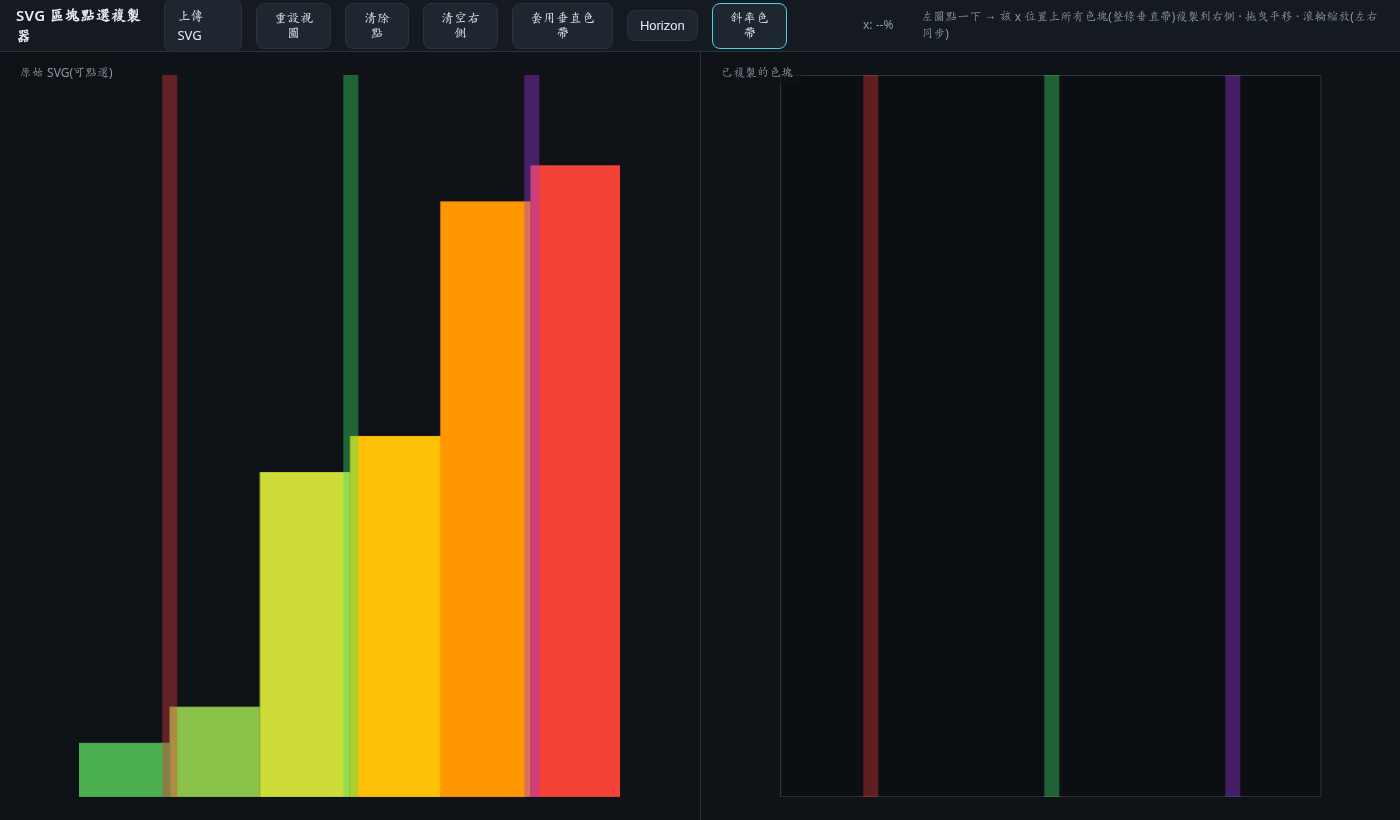
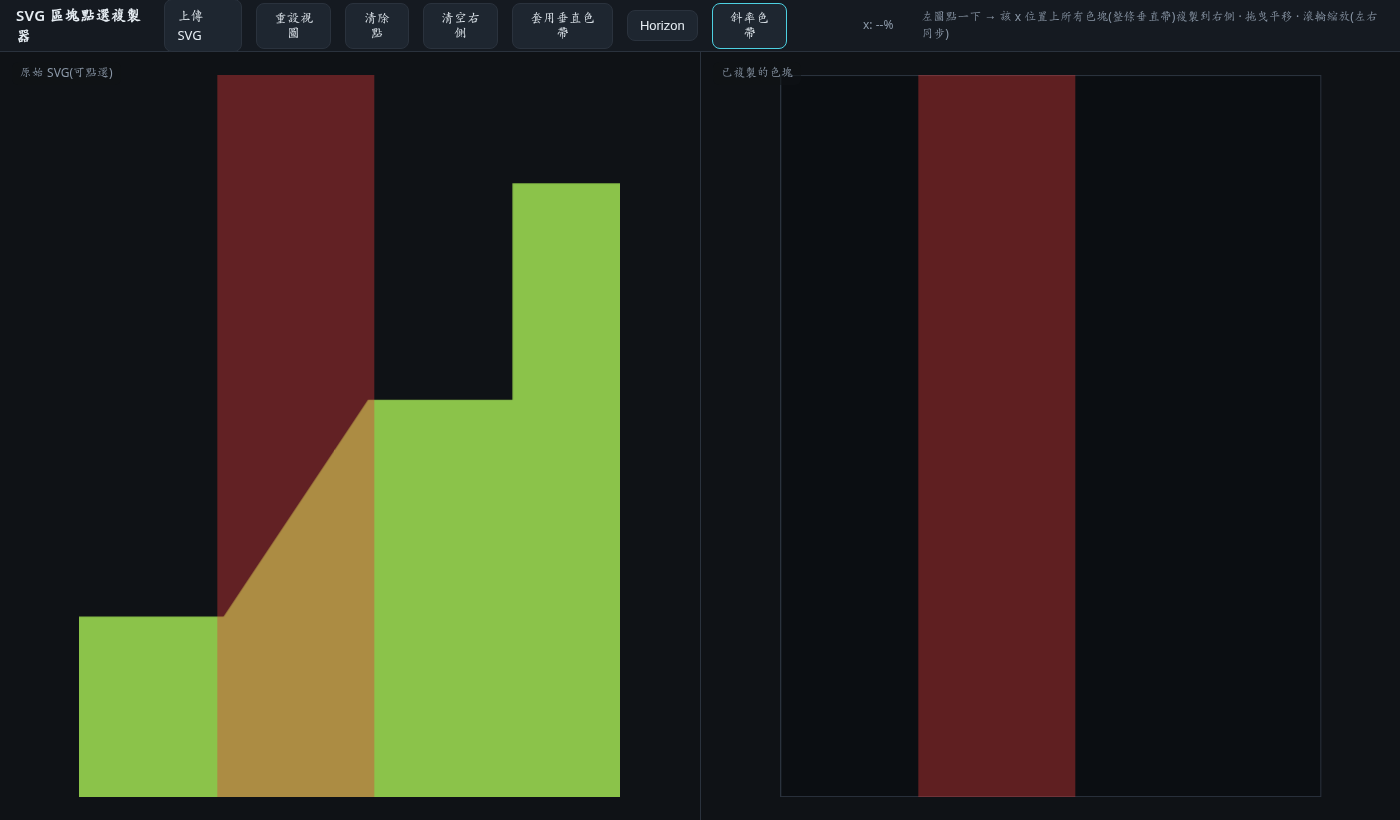
vcp: detect discontinuities by single-column jump, not slope magnitude
A vertical 90° step concentrates its whole rise into one column, so it is
a discontinuity at ANY height. Classify each column by the largest
single-column jump |Δy|/Δx in its window and exclude anything above
jumpMax, independent of the windowed slope — so a 20px step and a 130px
step are treated identically. A genuine slope spreads its rise over many
small per-column steps and is still marked.

Flips the step-height test: a mixed-height staircase (20px & 130px steps)
now yields zero bands, while a diagonal in the same canvas still yields
one. Fixes the reported case where short steps were banded and tall ones
were not. (ex.svg 69→52 bands.)

diff --git a/vcp/horizon-slope-step-heights.puppeteer.test.js b/vcp/horizon-slope-step-heights.puppeteer.test.js
@@ -1,17 +1,14 @@
-// Reproduces the reported case (Screenshot_20261011_205051): a pure block
-// staircase whose edges are ALL vertical 90° steps — no diagonals at all — yet
-// some steps get a colour band and some do not.
+// Guards the discontinuity rule against step HEIGHT (originally reported with
+// Screenshot_20261011_205051, where a block staircase of pure vertical 90°
+// steps had some steps banded and some not).
 //
-// Why: horizonSlopeSegments classifies a discontinuity by the magnitude of the
-// *windowed* slope, |Δy| / (2·window·Δx). A tall step produces a slope above
-// `steepMax` (correctly treated as a discontinuity and left unmarked), but a
-// SHORT step produces a small slope that lands in the "sloped" band and gets
-// marked. The cutoff here is |Δy| ≈ steepMax·2·window = 4·8 = 32 px, so a
-// 20px step is marked while a 130px step is not.
-//
-// This test characterises that height-dependent behaviour; it is the repro, not
-// an endorsement — a true fix would detect verticality from the single-sample
-// jump, independent of its height.
+// A vertical step concentrates its whole rise into a single column, so it is a
+// discontinuity no matter how tall it is. horizonSlopeSegments flags any
+// single-column jump |Δy|/Δx above `jumpMax`, independent of the windowed
+// slope — so a 20px step and a 130px step are treated identically (both
+// unmarked), while a genuine diagonal (rise spread over many columns) is still
+// marked. This test pins both halves of that: steps of mixed heights → zero
+// bands; a diagonal in the same canvas → exactly one band.
 const assert = require("node:assert/strict");
 const { createServer } = require("node:http");
 const { readFile } = require("node:fs/promises");
@@ -38,20 +35,23 @@ function staticServer() {
   return new Promise(resolve => server.listen(0, "127.0.0.1", () => resolve(server)));
 }
 
-// A staircase of flat-topped blocks. Steps alternate short (20px) and tall
-// (130px); every block is 50px wide inside a 300×400 canvas.
-//   tops:  370 → 350 → 220 → 200 → 70 → 50
-//   steps:    20   130   20   130   20
-//   x:        50   100  150   200  250   (→ 16.67% 33.33% 50% 66.67% 83.33%)
+// A staircase of flat-topped blocks: every edge is a vertical 90° step, and the
+// step heights deliberately mix short (20px) and tall (130px).
+//   tops:  370 → 350 → 220 → 200 → 70 → 50   (steps 20,130,20,130,20)
 const TOPS = [370, 350, 220, 200, 70, 50];
 const BLOCK = 50;
 const PALETTE = ["#4caf50", "#8bc34a", "#cddc39", "#ffc107", "#ff9800", "#f44336"];
 const stairSvg = `<svg xmlns="http://www.w3.org/2000/svg" width="300" height="400" viewBox="0 0 300 400">`
   + TOPS.map((top, i) => `<rect x="${i * BLOCK}" y="${top}" width="${BLOCK}" height="${400 - top}" fill="${PALETTE[i]}"/>`).join("")
   + `</svg>`;
+const STEP_PCT = [50, 100, 150, 200, 250].map(x => (x / 300) * 100);   // all five step x positions
 
-const SHORT_STEP_PCT = [50, 150, 250].map(x => (x / 300) * 100);   // marked (16.67/50/83.33%)
-const TALL_STEP_PCT = [100, 200].map(x => (x / 300) * 100);        // unmarked (33.33/66.67%)
+// Same idea, but one edge is a DIAGONAL ramp (flat → slope → flat → vertical
+// step → flat): the diagonal must be marked, the vertical step must not.
+const rampSvg = `<svg xmlns="http://www.w3.org/2000/svg" width="300" height="400" viewBox="0 0 300 400">`
+  + `<polygon points="0,300 80,300 160,180 240,180 240,60 300,60 300,400 0,400" fill="#8bc34a"/></svg>`;
+const DIAGONAL_PCT = (120 / 300) * 100;   // 40% — middle of the ramp
+const RAMP_STEP_PCT = (240 / 300) * 100;  // 80% — the vertical step
 
 async function main() {
   const server = await staticServer();
@@ -68,33 +68,37 @@ async function main() {
     await page.goto(`http://127.0.0.1:${port}/vcp/index.html`, { waitUntil: "networkidle0" });
     await page.waitForFunction(() => typeof window.d3 !== "undefined" && typeof window.Plotly !== "undefined");
 
-    // ---- 1. pure function: short steps become bands, tall steps do not -------
-    const segments = await page.evaluate((tops, block) => {
+    // ---- 1. pure function: mixed-height steps all stay unmarked --------------
+    const staircaseSegments = await page.evaluate((tops, block) => {
       const points = [];
       tops.forEach(top => { for (let k = 0; k < block; k++) points.push({ x: points.length, y: top }); });
-      const segs = horizonSlopeSegments(points, { window: 4, flatEps: 0.1, steepMax: 4 });
-      // the band straddles the boundary symmetrically, so its centre is the step x
-      return segs.map(s => ({ center: (s.startIndex + s.endIndex + 1) / 2, startIndex: s.startIndex, endIndex: s.endIndex }));
+      return horizonSlopeSegments(points, { window: 4, flatEps: 0.1, jumpMax: 6 });
     }, TOPS, BLOCK);
+    assert.deepEqual(staircaseSegments, [], "every vertical step is a discontinuity — 20px and 130px alike — so nothing is marked");
 
-    assert.equal(segments.length, 3, "only the three SHORT steps are marked");
-    assert.deepEqual(segments.map(s => s.center), [50, 150, 250], "the marked bands sit on the 20px steps, not the 130px ones");
-
-    // ---- 2. live DOM: same split, visible on screen -------------------------
+    // ---- 2. live DOM: the block staircase renders zero bands -----------------
     await page.evaluate(markup => loadSvgText(markup), stairSvg);
     await page.click("#slopeband");
+    await page.waitForSelector(".swal2-popup");   // zero-band path finishes by announcing "all flat/steps"
+    const stairBands = await page.evaluate(() => document.querySelector("#lbands").childElementCount);
+    assert.equal(stairBands, 0, "a staircase of five 90° steps produces no bands at all");
+    await page.evaluate(() => Swal.close());
+    await page.waitForFunction(() => !document.querySelector(".swal2-popup"));
+
+    // ---- 3. the classifier still marks a real slope -------------------------
+    await page.evaluate(markup => loadSvgText(markup), rampSvg);
+    await page.click("#slopeband");
     await page.waitForFunction(() => document.querySelector("#lbands").childElementCount > 0);
-    const bands = await page.evaluate(() => [...document.querySelectorAll("#lbands > div")]
+    const ramp = await page.evaluate(() => [...document.querySelectorAll("#lbands > div")]
       .map(d => ({ left: parseFloat(d.style.left), width: parseFloat(d.style.width) })));
+    const covered = pct => ramp.some(b => pct >= b.left && pct <= b.left + b.width);
 
-    const covered = pct => bands.some(b => pct >= b.left && pct <= b.left + b.width);
-
-    assert.equal(bands.length, 3, "three bands render for a staircase of five 90° steps");
-    for (const pct of SHORT_STEP_PCT) assert.ok(covered(pct), `the short step at ${pct.toFixed(2)}% IS marked`);
-    for (const pct of TALL_STEP_PCT) assert.ok(!covered(pct), `the tall step at ${pct.toFixed(2)}% is NOT marked`);
+    assert.equal(ramp.length, 1, "the lone diagonal yields exactly one band");
+    assert.ok(covered(DIAGONAL_PCT), "the diagonal (40%) IS marked");
+    assert.ok(!covered(RAMP_STEP_PCT), "the vertical step (80%) is NOT marked");
 
     assert.deepEqual(pageErrors, [], "the browser reported no runtime errors");
-    console.log(`Horizon slope-band step-height repro: OK (short steps marked, tall steps skipped — ${bands.length} bands)`);
+    console.log("Horizon slope-band discontinuity test: OK (all steps unmarked regardless of height; diagonal still marked)");
   } finally {
     await browser.close();
     await new Promise(resolve => server.close(resolve));

diff --git a/vcp/index.html b/vcp/index.html
@@ -134,31 +134,43 @@ function applyShade(startPct, endPct, hex, alpha) {
 }
 
 /* ---- slope bands: cut the horizon skyline into maximal runs that are NOT
-   flat, and paint each run as its own vertical colour band. The partition is
-   per-column by a *windowed* slope ∂y/∂x, which matters for two reasons the
-   naive forward difference gets wrong:
-     • a sloped edge rasterises to a staircase (flat tread + 1px step, repeating)
-       — a window spans several treads so the whole diagonal reads as ONE slope
-       instead of fragmenting into many tiny bands;
-     • a near-vertical step is a *discontinuity* (a jump), not a slope — any
-       column whose |slope| exceeds `steepMax` is excluded and left unmarked.
-   So every segment is uniformly flat (unmarked) or uniformly sloped (marked),
-   and the number of marked bands is 0..N. */
+   flat, and paint each run as its own vertical colour band. Each column is
+   classified from two per-column measures, which together separate the three
+   things that look alike in a pixel skyline:
+     • a *windowed* slope ∂y/∂x — a sloped edge rasterises to a staircase (flat
+       tread + 1px step, repeating), so the window spans several treads and the
+       whole diagonal reads as ONE slope instead of fragmenting band-per-step;
+     • the largest *single-column* jump |Δy|/Δx in that window — a real slope
+       spreads its rise over many small per-column steps, but a vertical 90°
+       edge concentrates the WHOLE rise into one column. Any single-column jump
+       above `jumpMax` is a discontinuity and is left unmarked — regardless of
+       the step's height, so a short step and a tall step are treated alike.
+   So a column is marked only when it is genuinely sloped AND nothing in its
+   window is a vertical step; every segment is uniformly flat/step (unmarked) or
+   uniformly sloped (marked), and the number of bands is 0..N. */
 function horizonSlopeSegments(points, options = {}) {
   const n = points.length, last = n - 1;
   if (last < 1) return [];
   const window = Math.max(1, options.window ?? Math.min(20, Math.max(4, Math.round(n * 0.004))));
   const flatEps = options.flatEps ?? 0.1;           // |slope| ≤ this ⇒ flat (also swallows ±1px raster jitter)
-  const steepMax = options.steepMax ?? 4;           // |slope| > this ⇒ discontinuity (near-vertical jump), never marked
+  const jumpMax = options.jumpMax ?? 6;             // a single-column rise above this ⇒ vertical step, never marked
 
-  const slope = new Array(n).fill(null);            // central/windowed slope per column; null where undefined
+  const slope = new Array(n).fill(null);            // windowed slope per column; null where undefined
+  const jump = new Array(n).fill(0);               // largest single-column rise within the window
   for (let i = 0; i < n; i++) {
-    if (!Number.isFinite(points[i].y)) continue;
-    const a = points[Math.max(0, i - window)], b = points[Math.min(last, i + window)];
-    if (!Number.isFinite(a.y) || !Number.isFinite(b.y) || b.x === a.x) continue;   // a gap breaks the slope
-    slope[i] = (b.y - a.y) / (b.x - a.x);
+    if (!Number.isFinite(points[i].y)) { jump[i] = Infinity; continue; }
+    const lo = Math.max(0, i - window), hi = Math.min(last, i + window);
+    const a = points[lo], b = points[hi];
+    if (Number.isFinite(a.y) && Number.isFinite(b.y) && b.x !== a.x) slope[i] = (b.y - a.y) / (b.x - a.x);
+    let worst = 0;
+    for (let k = lo; k < hi; k++) {
+      const y0 = points[k].y, y1 = points[k + 1].y;
+      if (!Number.isFinite(y0) || !Number.isFinite(y1)) { worst = Infinity; break; }   // a gap counts as a break
+      worst = Math.max(worst, Math.abs(y1 - y0) / (points[k + 1].x - points[k].x));
+    }
+    jump[i] = worst;
   }
-  const isSloped = i => slope[i] !== null && Math.abs(slope[i]) > flatEps && Math.abs(slope[i]) <= steepMax;
+  const isSloped = i => slope[i] !== null && jump[i] <= jumpMax && Math.abs(slope[i]) > flatEps;
 
   const segments = [];
   let start = null;

diff --git a/vcp/horizon-slope.puppeteer.test.js b/vcp/horizon-slope.puppeteer.test.js
@@ -44,7 +44,7 @@ async function main() {
     const segments = await page.evaluate(() => {
       const mk = ys => ys.map((y, i) => ({ x: i, y }));
       const pair = s => s.map(g => [g.startIndex, g.endIndex]);
-      const opts = { window: 1, flatEps: 0.01, steepMax: 10 };
+      const opts = { window: 1, flatEps: 0.01, jumpMax: 10 };
       return {
         flat: horizonSlopeSegments(mk([5, 5, 5, 5, 5]), opts),
         ramp: pair(horizonSlopeSegments(mk([0, 1, 2, 3, 4, 5]), opts)),
